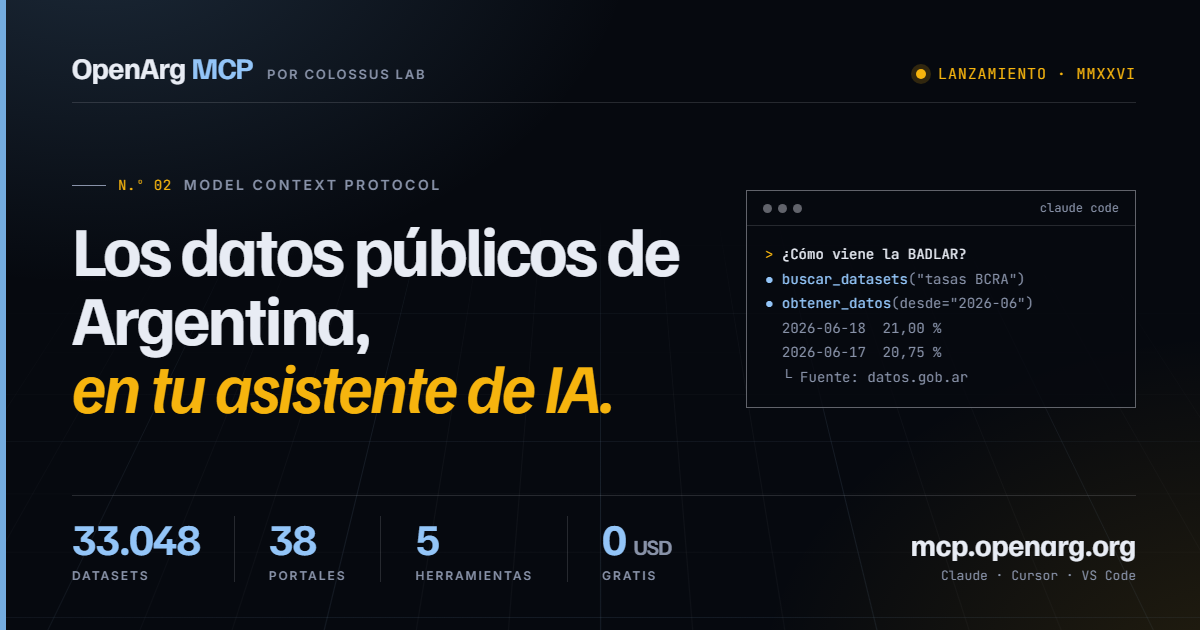
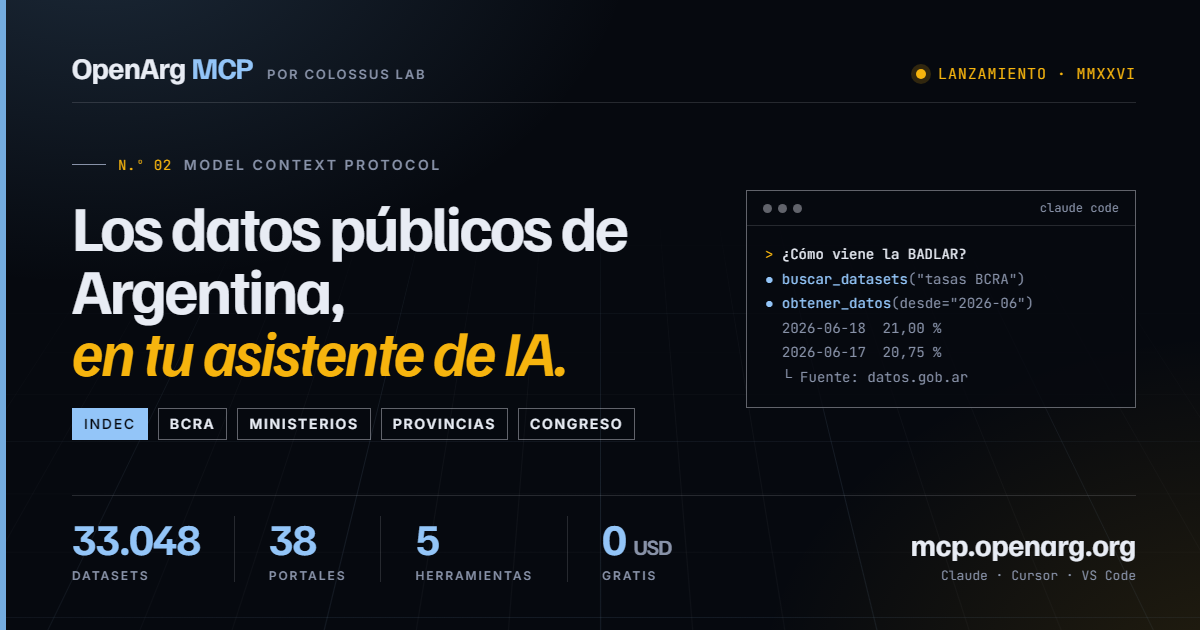
feat(mcp-web): INDEC con sección propia en la landing del MCP
INDEC sólo aparecía de pasada en "Escala". Ahora tiene la sección II:
+400 datasets (436 en staging, 270 con tablas consultables) agrupados en
censos 1991-2022, EPH, pobreza y canastas, PIB y EMAE, construcción e
industria, IPC y salarios. El hero, la descripción y las meta OG/Twitter
lo nombran primero, y la imagen OG suma la franja INDEC · BCRA ·
Ministerios · Provincias · Congreso.

Changed region(s): [[0.0617, 0.3317, 0.5858, 0.7238], [0.0925, 0.2413, 0.37, 0.3016]]

diff --git a/mcp_publico/site/index.html b/mcp_publico/site/index.html
@@ -4,7 +4,7 @@
   <meta charset="utf-8">
   <meta name="viewport" content="width=device-width, initial-scale=1">
   <title>OpenArg MCP — Los datos públicos de Argentina, en tu asistente de IA</title>
-  <meta name="description" content="Conectá Claude, Cursor o VS Code a más de 33.000 datasets públicos oficiales de Argentina. Buscá, leé las tablas y obtené respuestas con la fuente citada. Gratis.">
+  <meta name="description" content="Conectá Claude, Cursor o VS Code a más de 33.000 datasets públicos oficiales de Argentina: INDEC, BCRA, ministerios y provincias. Buscá, leé las tablas y obtené respuestas con la fuente citada. Gratis.">
   <link rel="icon" href="icon.svg" type="image/svg+xml">
   <link rel="stylesheet" href="styles.css">
   <link rel="canonical" href="https://mcp.openarg.org/">
@@ -14,14 +14,14 @@
   <meta property="og:locale" content="es_AR">
   <meta property="og:url" content="https://mcp.openarg.org/">
   <meta property="og:title" content="OpenArg MCP — Los datos públicos de Argentina, en tu asistente de IA">
-  <meta property="og:description" content="33.000 datasets oficiales, 38 portales, 5 herramientas. Conectalo a Claude, Cursor o VS Code. Gratis.">
+  <meta property="og:description" content="INDEC, BCRA, ministerios y provincias: 33.000 datasets oficiales, 38 portales, 5 herramientas. Conectalo a Claude, Cursor o VS Code. Gratis.">
   <meta property="og:image" content="https://mcp.openarg.org/og-image.png">
   <meta property="og:image:width" content="1200">
   <meta property="og:image:height" content="630">
   <meta property="og:image:alt" content="OpenArg MCP: los datos públicos de Argentina, en tu asistente de IA. mcp.openarg.org">
   <meta name="twitter:card" content="summary_large_image">
   <meta name="twitter:title" content="OpenArg MCP — Los datos públicos de Argentina, en tu asistente de IA">
-  <meta name="twitter:description" content="33.000 datasets oficiales, 38 portales, 5 herramientas. Gratis.">
+  <meta name="twitter:description" content="INDEC, BCRA, ministerios y provincias: 33.000 datasets oficiales, 38 portales, 5 herramientas. Gratis.">
   <meta name="twitter:image" content="https://mcp.openarg.org/og-image.png">
 </head>
 <body>
@@ -46,8 +46,8 @@
       <p class="eyebrow center"><span class="num">N.º 02 / MMXXVI</span> Model Context Protocol</p>
       <h1 class="display">Los datos públicos de Argentina, <span class="alt">en tu asistente.</span></h1>
       <p class="subtitle">
-        Conectá Claude, Cursor o VS Code a más de 33.000 datasets oficiales.
-        Tu asistente busca, lee las tablas y te responde con la fuente citada.
+        Conectá Claude, Cursor o VS Code a más de 33.000 datasets oficiales:
+        del INDEC, el BCRA, ministerios y provincias. Tu asistente busca, lee las tablas y te responde con la fuente citada.
       </p>
       <div class="hero-actions">
         <a class="textlink" href="https://openarg.org/desarrolladores"><span class="arrow">→</span> Conseguí tu clave gratis</a>
@@ -76,10 +76,11 @@
       </div>
       <ul class="toc" aria-label="En esta página">
         <li><a href="#modos">I. Dos modos</a></li>
-        <li><a href="#como-se-ve">II. Cómo se ve</a></li>
-        <li><a href="#clientes">III. Clientes</a></li>
-        <li><a href="#escala">IV. Escala</a></li>
-        <li><a href="#preguntas">V. Preguntas</a></li>
+        <li><a href="#indec">II. INDEC</a></li>
+        <li><a href="#como-se-ve">III. Cómo se ve</a></li>
+        <li><a href="#clientes">IV. Clientes</a></li>
+        <li><a href="#escala">V. Escala</a></li>
+        <li><a href="#preguntas">VI. Preguntas</a></li>
       </ul>
     </div>
   </section>
@@ -120,10 +121,36 @@
     </div>
   </section>
 
+  <section class="sec" id="indec">
+    <div class="wrap">
+      <div class="indec-head">
+        <div class="sec-head">
+          <p class="eyebrow"><span class="num">II.</span> INDEC</p>
+          <h2 class="section-title">Las estadísticas oficiales, <em>directo del INDEC.</em></h2>
+          <p class="lead">Censos, la Encuesta Permanente de Hogares, pobreza, actividad y precios: los cuadros que publica el Instituto Nacional de Estadística y Censos, indexados y listos para que tu asistente los busque y los lea.</p>
+        </div>
+        <div class="indec-figure">
+          <div class="stat-num">+400</div>
+          <span class="meta">Datasets del INDEC</span>
+          <p>La mayoría con tablas consultables fila por fila, con el link al cuadro oficial.</p>
+        </div>
+      </div>
+      <div class="indec-grid">
+        <div class="indec-cell"><span class="meta">Población</span><h3>Censos 1991 a 2022</h3><p>Población, hogares y viviendas, con radios y fracciones censales.</p></div>
+        <div class="indec-cell"><span class="meta">Hogares</span><h3>EPH</h3><p>Encuesta Permanente de Hogares, bases por año y módulos especiales.</p></div>
+        <div class="indec-cell"><span class="meta">Condiciones de vida</span><h3>Pobreza y canastas</h3><p>Informe de pobreza por aglomerado, Canasta Básica Alimentaria y Total, distribución del ingreso.</p></div>
+        <div class="indec-cell"><span class="meta">Actividad</span><h3>PIB y EMAE</h3><p>PIB trimestral por oferta y demanda, estimador mensual de actividad.</p></div>
+        <div class="indec-cell"><span class="meta">Sectores</span><h3>Construcción e industria</h3><p>ISAC, IPI manufacturero y ventas en supermercados.</p></div>
+        <div class="indec-cell"><span class="meta">Precios e ingresos</span><h3>IPC y salarios</h3><p>Índice de precios al consumidor e índice de salarios.</p></div>
+      </div>
+      <p class="soon muted">Además del INDEC: BCRA, ministerios nacionales, provincias, municipios y el Congreso. <a class="inline-link" href="#escala">Ver la escala →</a></p>
+    </div>
+  </section>
+
   <section class="sec" id="como-se-ve">
     <div class="wrap">
       <div class="sec-head">
-        <p class="eyebrow"><span class="num">II.</span> Cómo se ve</p>
+        <p class="eyebrow"><span class="num">III.</span> Cómo se ve</p>
         <h2 class="section-title">Cada número, <em>con su fuente.</em></h2>
         <p class="lead">Transcripción de una consulta real en modo datos: el asistente encuentra la serie oficial del BCRA, revisa qué período cubre y trae sólo las filas que pidió.</p>
       </div>
@@ -151,7 +178,7 @@
   <section class="sec" id="clientes">
     <div class="wrap">
       <div class="sec-head">
-        <p class="eyebrow"><span class="num">III.</span> Clientes</p>
+        <p class="eyebrow"><span class="num">IV.</span> Clientes</p>
         <h2 class="section-title">Funciona donde <em>ya trabajás.</em></h2>
         <p class="lead">Un servidor MCP estándar, por Streamable HTTP. La clave va como header: se configura una vez.</p>
       </div>
@@ -168,7 +195,7 @@
   <section class="sec" id="escala">
     <div class="wrap">
       <div class="sec-head">
-        <p class="eyebrow"><span class="num">IV.</span> Escala</p>
+        <p class="eyebrow"><span class="num">V.</span> Escala</p>
         <h2 class="section-title">Todo lo que el Estado publica, <em>en un mismo lugar.</em></h2>
       </div>
       <div class="scale-row"><div class="stat-num">33.048</div><h3>Datasets indexados</h3><p>De datos.gob.ar, el INDEC, ministerios, provincias, municipios y el Congreso, con su link oficial.</p></div>
@@ -180,7 +207,7 @@
   <section class="sec" id="preguntas">
     <div class="wrap">
       <div class="sec-head">
-        <p class="eyebrow"><span class="num">V.</span> Preguntas</p>
+        <p class="eyebrow"><span class="num">VI.</span> Preguntas</p>
         <h2 class="section-title">Lo que <em>conviene saber.</em></h2>
       </div>
       <div class="qa">

diff --git a/mcp_publico/site/styles.css b/mcp_publico/site/styles.css
@@ -255,6 +255,20 @@ p { margin: 0 0 .9rem; }
 .t-step p { margin: .2rem 0 0; font-size: .92rem; color: var(--ink-2); }
 .t-csv { margin: .6rem 0 0; font: 400 .78rem/1.6 var(--mono); color: var(--ink); background: var(--code-bg); border: 1px solid var(--rule); padding: 10px 12px; overflow-x: auto; white-space: pre; }
 
+/* INDEC */
+.indec-head { display: grid; grid-template-columns: 1fr 300px; gap: 48px; align-items: end; margin-bottom: 40px; }
+.indec-head .sec-head { margin-bottom: 0; }
+.indec-figure { border-left: 3px solid var(--sol); padding: 6px 0 6px 22px; }
+.indec-figure .stat-num { font-size: clamp(3rem, 6vw, 4.6rem); color: var(--sol); }
+.indec-figure .meta { display: block; margin-top: .6rem; }
+.indec-figure p { margin: .8rem 0 0; font-size: .9rem; color: var(--ink-2); }
+.indec-grid { display: grid; grid-template-columns: repeat(3, 1fr); border-top: 1px solid var(--rule-strong); }
+.indec-cell { padding: 24px 22px 22px 0; border-bottom: 1px solid var(--rule); }
+.indec-cell:not(:nth-child(3n+1)) { padding-left: 22px; border-left: 1px solid var(--rule); }
+.indec-cell .meta { color: var(--celeste-2); }
+.indec-cell h3 { margin-top: .6rem; }
+.indec-cell p { font-size: .9rem; color: var(--ink-2); margin: 0; }
+
 /* Clientes */
 .clients { display: grid; grid-template-columns: repeat(4, 1fr); border-top: 1px solid var(--rule-strong); }
 .client { padding: 24px 20px 22px 0; }
@@ -368,6 +382,10 @@ thead th { font: 600 .7rem/1.3 var(--body); letter-spacing: .14em; text-transfor
   .client:nth-child(3) { padding-left: 0; border-left: 0; }
   .client:nth-child(n+3) { border-top: 1px solid var(--rule); }
   .colophon-grid { grid-template-columns: 1fr 1fr; }
+  .indec-head { grid-template-columns: 1fr; gap: 28px; }
+  .indec-grid { grid-template-columns: 1fr 1fr; }
+  .indec-cell:not(:nth-child(3n+1)) { padding-left: 0; border-left: 0; }
+  .indec-cell:nth-child(even) { padding-left: 22px; border-left: 1px solid var(--rule); }
 }
 @media (max-width: 680px) {
   .wrap { padding: 0 18px; }
@@ -388,6 +406,8 @@ thead th { font: 600 .7rem/1.3 var(--body); letter-spacing: .14em; text-transfor
   .t-question { padding: 24px 0; border-right: 0; border-bottom: 1px solid var(--rule); }
   .t-steps { padding: 18px 0; }
   .scale-row { grid-template-columns: 1fr; gap: 6px; }
+  .indec-grid { grid-template-columns: 1fr; }
+  .indec-cell:nth-child(even) { padding-left: 0; border-left: 0; }
   .steps > li { grid-template-columns: 1fr; }
   .terminal pre { font-size: .74rem; }
   .sec { padding-top: 64px; }

diff --git a/mcp_publico/og/og.html b/mcp_publico/og/og.html
@@ -50,7 +50,10 @@
   .eyebrow { font: 600 14px/1 "Inter"; letter-spacing: .18em; text-transform: uppercase; color: var(--ink-2); display: flex; align-items: center; gap: 12px; }
   .eyebrow::before { content: ""; width: 34px; height: 1px; background: var(--ink-2); }
   .eyebrow .n { font: 400 14px/1 "JetBrains Mono"; letter-spacing: .04em; color: var(--sol); }
-  h1 { font: 700 70px/.98 "Familjen Grotesk"; letter-spacing: -.04em; margin-top: 22px; }
+  h1 { font: 700 64px/.98 "Familjen Grotesk"; letter-spacing: -.04em; margin-top: 22px; }
+  .src { margin-top: 26px; display: flex; gap: 10px; flex-wrap: wrap; }
+  .src span { font: 600 14px/1 "Inter"; letter-spacing: .12em; text-transform: uppercase; color: var(--ink); border: 1px solid var(--rule-strong); padding: 8px 11px; }
+  .src span.k { color: var(--paper); background: var(--celeste-2); border-color: var(--celeste-2); }
   h1 em { display: block; font-style: italic; font-weight: 600; color: var(--sol); }
 
   .term { border: 1px solid var(--rule-strong); background: rgba(6,9,15,.78); }
@@ -82,6 +85,7 @@
     <div>
       <p class="eyebrow"><span class="n">N.º 02</span> Model Context Protocol</p>
       <h1>Los datos públicos de Argentina, <em>en tu asistente de IA.</em></h1>
+      <div class="src"><span class="k">INDEC</span><span>BCRA</span><span>Ministerios</span><span>Provincias</span><span>Congreso</span></div>
     </div>
     <div class="term">
       <div class="term-bar"><span class="dots"><i></i><i></i><i></i></span><span>claude code</span></div>
